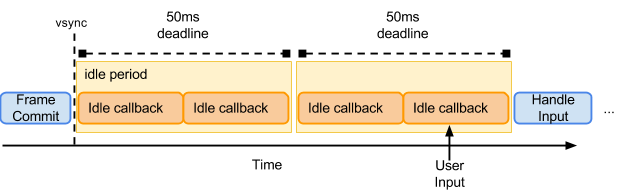
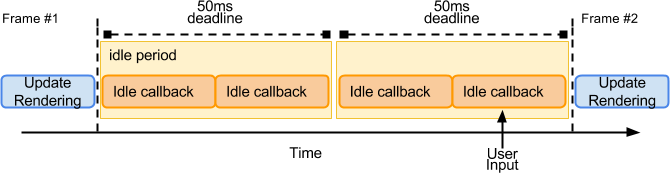
Update diagrams to reference be related to HTML event loop.
Also add comments with the source of the diagrams for future edits. Addresses #44

diff --git a/index.html b/index.html
@@ -177,6 +177,7 @@ function stop() {
     occur frequently during active animations and screen updates, but will
     typically be very short (i.e., less than 16ms for devices with a 60Hz vsync
     cycle).</p>
+    <!-- Image source avaliable at https://docs.google.com/document/d/1zGgKAJVTDVgq0LpZDL3HD0jNiveivHb_V2Wb8C3jsEE/edit -->
     <figure id='figure1'>
       <img alt="Example of an inter-frame idle period." src=
       "images/image01.png">
@@ -200,6 +201,8 @@ function stop() {
     finished the user agent can schedule another idle period if it remains
     idle, as shown in <a href='#figure2'></a>, to enable background work to
     continue to occur over longer idle time periods.</p>
+
+    <!-- Image source avaliable at https://docs.google.com/document/d/1zGgKAJVTDVgq0LpZDL3HD0jNiveivHb_V2Wb8C3jsEE/edit -->
     <figure id='figure2'>
       <img alt=
       "Example of an idle period when there are no pending frame updates." src=
